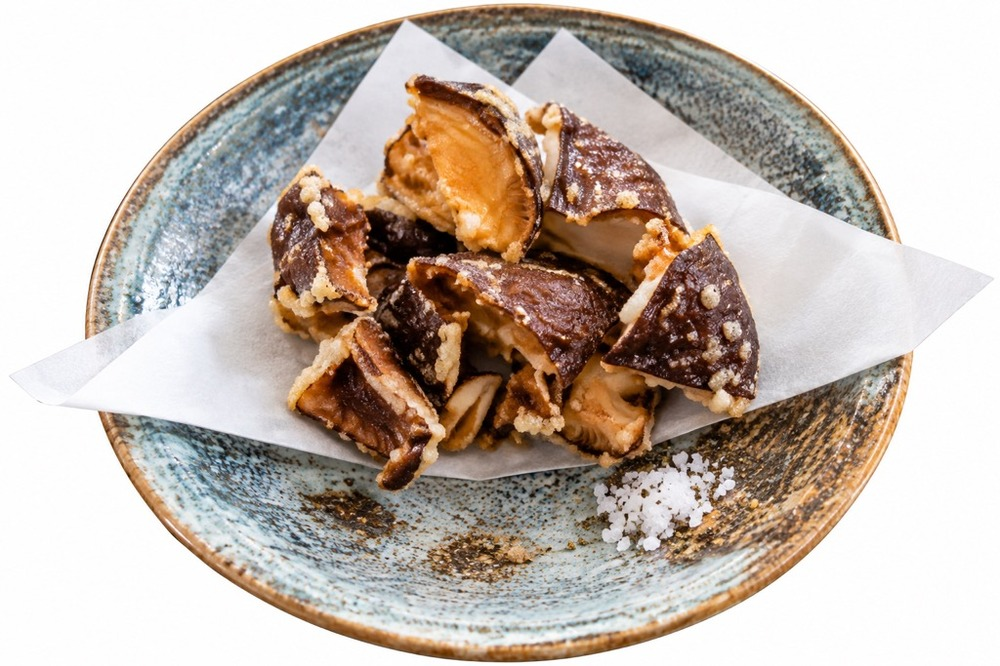
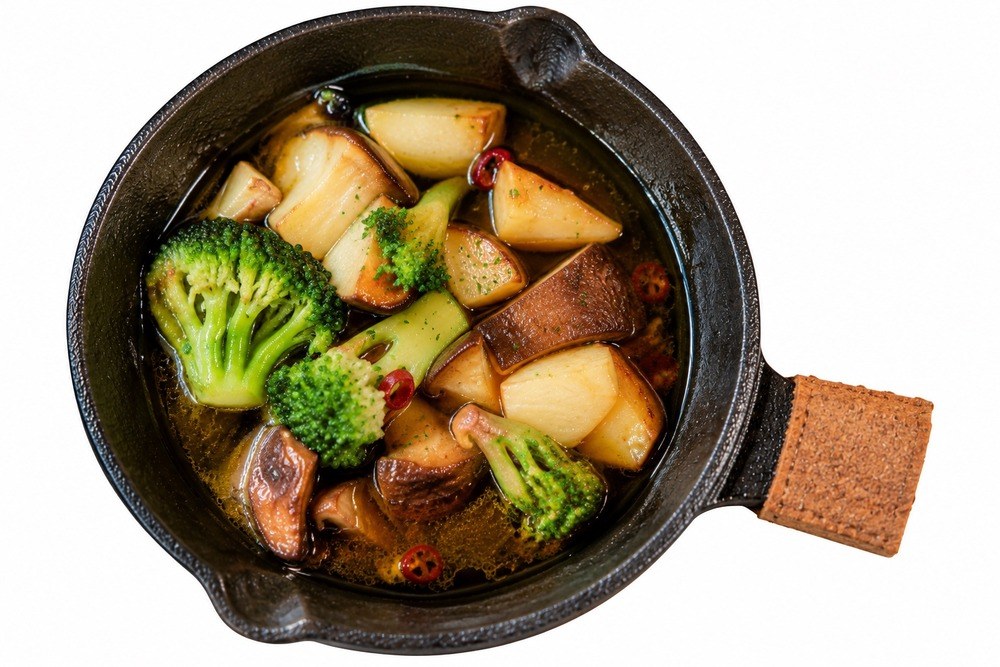
ORDブランドサイト: カテゴリ共通アイコン・ヒーロー画像を追加、商品写真の誤り2件を修正
- カテゴリナビゲーションを社長提供のAI生成汎用アイコン画像に統一（特定加盟店の商品写真との混同を解消）
- トップページのヒーローセクションを社長提供の完成バナー画像に差し替え
- 日替わりアヒージョ(P034)・五葷抜き日替わりアヒージョ(P042)に誤って登録されていた
  「沖縄県産しいたけフリット(P030)」の写真を、新たに提供された実写真（アヒージョ本来の一皿）に修正
- P030自体も低解像度(205x130)の粗いクロップ画像だったため、正しい高解像度写真に差し替え
- backend/backend-uitestに /category-images, /brand-images の静的配信ルートを追加

diff --git a/site/index.html b/site/index.html
@@ -72,48 +72,15 @@
     .hamburger{display:flex;}
   }
 
-  /* ---------- Hero ---------- */
-  .hero{
-    position:relative; overflow:hidden; background:linear-gradient(120deg,#0e3634 0%,#1c5b55 45%,#2f7d76 75%,#e8a25f 130%);
-    padding:36px 20px 44px;
-  }
-  .hero::before{
-    content:''; position:absolute; inset:0; opacity:.16; pointer-events:none;
-    background-image:radial-gradient(circle at 15% 20%, #fff 0, transparent 2px), radial-gradient(circle at 80% 60%, #fff 0, transparent 2px);
-    background-size:120px 120px;
-  }
-  .hero-inner{
-    max-width:1240px; margin:0 auto; position:relative;
-    display:grid; grid-template-columns:1.1fr .9fr; gap:34px; align-items:center;
-  }
-  @media (max-width:900px){ .hero-inner{grid-template-columns:1fr;} }
-  .hero-copy{color:#fff; position:relative; z-index:2;}
-  .hero-copy h1{font-size:clamp(30px,4.6vw,50px); line-height:1.08; margin:0 0 14px; font-weight:800;}
-  .hero-copy p{margin:0 0 20px; font-size:15px; max-width:420px; opacity:.95; line-height:1.6;}
-  .hero-script{font-family:'Caveat',cursive; font-size:22px; color:#ffe3c9; margin:0 0 18px; display:block;}
-  .badge-row{display:flex; flex-wrap:wrap; gap:22px 26px; margin-top:10px;}
+  /* ---------- Hero（社長提供の完成グラフィックをそのまま使用） ---------- */
+  .hero-banner{width:100%; overflow:hidden; background:var(--teal-dark); line-height:0;}
+  .hero-banner img{width:100%; height:auto; display:block;}
   .badge-item{display:flex; flex-direction:column; align-items:center; gap:7px; width:88px; text-align:center;}
   .badge-circle{
     width:48px; height:48px; border-radius:50%; border:1.5px solid rgba(255,255,255,.55);
     display:flex; align-items:center; justify-content:center; color:#fff;
   }
   .badge-item span{font-size:11.5px; font-weight:700; color:#fff; line-height:1.3;}
-
-  .hero-visual{position:relative; z-index:2;}
-  .hero-photo-card{
-    border-radius:22px; overflow:hidden; box-shadow:var(--shadow-lift); border:6px solid rgba(255,255,255,.18);
-    aspect-ratio:5/4;
-  }
-  .hero-photo-card img{width:100%; height:100%; object-fit:cover;}
-  .cutoff-card{
-    background:var(--coral); color:#fff; border-radius:16px; padding:14px 18px; margin-top:-34px; margin-left:18px;
-    position:relative; z-index:3; box-shadow:0 12px 30px rgba(209,76,48,.4);
-    display:flex; align-items:center; gap:12px; max-width:340px;
-  }
-  .cutoff-card .clock{flex:0 0 auto; width:30px; height:30px;}
-  .cutoff-card .big{font-size:15px; font-weight:800; display:block;}
-  .cutoff-card .sub{font-size:12px; opacity:.95;}
-  @media (max-width:900px){ .cutoff-card{margin-left:0;} }
 
   /* ---------- Sections ---------- */
   .section{max-width:1240px; margin:0 auto; padding:38px 20px;}
@@ -196,6 +163,8 @@
     font-size:14px; display:flex; align-items:center; justify-content:center; gap:8px; margin-top:6px;
   }
   .cart-delivery-note{display:flex; align-items:center; gap:10px; font-size:12px; color:var(--text-soft); margin-top:14px; padding-top:14px; border-top:1px solid var(--border);}
+  .cart-cutoff-note{display:flex; align-items:center; gap:8px; font-size:11.5px; color:var(--teal); font-weight:700; margin-top:8px;}
+  .cart-cutoff-note.past{color:var(--coral-dark);}
 
   .mobile-cart-fab{
     position:fixed; bottom:18px; left:50%; transform:translateX(-50%); z-index:80;
@@ -336,19 +305,22 @@ const ICONS = {
   clock: '<svg width="22" height="22" viewBox="0 0 24 24" fill="none" stroke="#fff" stroke-width="2" stroke-linecap="round" stroke-linejoin="round"><circle cx="12" cy="12" r="10"/><path d="M12 6v6l4 2"/></svg>',
 };
 
-// カテゴリアイコンは実際のGAJIMARU商品写真から代表カットを使用する（絵文字は使わない）
+// 【2026-09-24・社長提供】カテゴリアイコンはORD共通の汎用素材（/category-images）を使用する。
+// 特定加盟店(GAJIMARU等)の商品写真をORD全体のカテゴリ表示に流用しない（加盟店増加時の公平性・
+// 保守性の問題を避けるため。2026-09-23監査で発見した問題への対応）。
 const CATEGORY_META = {
-  ALL:       { photo:null, en:'All',       ja:'すべて' },
-  RAMEN:     { photo:'/product-images/ORD-M001-P001.jpg', en:'Ramen',     ja:'ラーメン' },
-  RICE:      { photo:'/product-images/ORD-M001-P017.jpg', en:'Rice',      ja:'ライス' },
-  PASTA:     { photo:'/product-images/ORD-M001-P020.jpg', en:'Pasta',     ja:'パスタ' },
-  APPETIZER: { photo:'/product-images/ORD-M001-P011.jpg', en:'Appetizer', ja:'前菜' },
-  DESSERT:   { photo:'/product-images/ORD-M001-P043.jpg', en:'Dessert',   ja:'デザート' },
-  DRINK:     { photo:'/product-images/ORD-M001-P047.jpg', en:'Drinks',    ja:'ドリンク' },
-  KIDS:      { photo:'/product-images/ORD-M001-P062.jpg', en:'Kids',      ja:'キッズ' },
+  ALL:       { photo:'/category-images/ALL.png',       en:'All',       ja:'すべて' },
+  RAMEN:     { photo:'/category-images/RAMEN.png',      en:'Ramen',     ja:'ラーメン' },
+  RICE:      { photo:'/category-images/RICE.png',       en:'Rice',      ja:'ライス' },
+  PASTA:     { photo:'/category-images/PASTA.png',      en:'Pasta',     ja:'パスタ' },
+  APPETIZER: { photo:'/category-images/APPETIZER.png',  en:'Appetizer', ja:'前菜' },
+  DESSERT:   { photo:'/category-images/DESSERT.png',    en:'Dessert',   ja:'デザート' },
+  DRINK:     { photo:'/category-images/DRINK.png',      en:'Drinks',    ja:'ドリンク' },
+  KIDS:      { photo:'/category-images/KIDS.png',       en:'Kids',      ja:'キッズ' },
 };
 const CATEGORY_ORDER = ['ALL','RAMEN','RICE','PASTA','APPETIZER','DESSERT','DRINK','KIDS'];
-const HERO_FEATURED_IMAGE = '/product-images/ORD-M001-P014.jpg';
+// 【2026-09-24・社長提供】ブランドヒーロー画像（英語/日本語併記の完成グラフィック）。
+const HERO_BRAND_IMAGE = '/brand-images/hero-home.jpg';
 
 const I18N = {
   en: {
@@ -579,6 +551,7 @@ function cartPanelHtml(){
     <div class="cart-subtotal"><span>${t('subtotal')}</span><span>¥${cartSubtotal().toLocaleString()}</span></div>
     <button class="cart-checkout-btn" onclick="showToast(t('checkoutComingSoon'))">${ICONS.cartWhite} ${t('proceedCheckout')}</button>
     <div class="cart-delivery-note">${ICONS.car.replace('width="22" height="22"','width="18" height="18"')} <span>${t('deliveryTimeLabel')}: ${DELIVERY_WINDOW}</span></div>
+    <div class="cart-cutoff-note ${isPastCutoff() ? 'past' : ''}">${ICONS.clock.replace('stroke="#fff"','stroke="currentColor"').replace('width="22" height="22"','width="16" height="16"')} <span>${isPastCutoff() ? t('cutoffLabelPast') : t('cutoffLabel') + '（' + t('cutoffSub') + '）'}</span></div>
   </div>`;
 }
 function renderCartPanelIfPresent(){
@@ -608,39 +581,12 @@ function render(){
   updateMobileFab();
 }
 
-function renderCutoffCard(){
-  const past = isPastCutoff();
-  return `<div class="cutoff-card">
-    <div class="clock">${ICONS.clock}</div>
-    <div><span class="big">${past ? t('cutoffLabelPast') : t('cutoffLabel')}</span><span class="sub">${t('cutoffSub')}</span></div>
-  </div>`;
-}
-
-function renderHeroBadges(){
-  return `<div class="badge-row">
-    ${[['leaf','badgeVegan'],['moon','badgeHalal'],['car','badgeResort'],['card','badgeCashless']].map(([icon,key]) =>
-      `<div class="badge-item"><div class="badge-circle">${ICONS[icon]}</div><span>${t(key)}</span></div>`
-    ).join('')}
-  </div>`;
-}
-
 function renderHome(){
   const featuredStores = state.stores.slice(0, 4);
   const popular = state.homeProducts.slice(0, 6);
   return `
-    <section class="hero">
-      <div class="hero-inner">
-        <div class="hero-copy">
-          <h1>${escapeHtml(t('heroTitle')).replace(/\\n/g,'<br>')}</h1>
-          <p>${t('heroSub')}</p>
-          ${renderHeroBadges()}
-        </div>
-        <div class="hero-visual">
-          <div class="hero-photo-card"><img src="${BACKEND_URL + HERO_FEATURED_IMAGE}" alt=""></div>
-          <span class="hero-script" style="display:block;margin:10px 0 0 18px;">${t('heroScript')}</span>
-          ${renderCutoffCard()}
-        </div>
-      </div>
+    <section class="hero-banner">
+      <img src="${BACKEND_URL + HERO_BRAND_IMAGE}" alt="YOUR OKINAWA STAY, MADE EASY. / 沖縄の滞在を、もっと気軽に。">
     </section>
     <div class="content-with-cart">
       <div class="main-col">

diff --git a/backend-uitest/src/index.ts b/backend-uitest/src/index.ts
@@ -40,9 +40,14 @@ app.use(cors({ credentials: true, origin: true }));
 app.use(express.json({ verify: captureRawBody }));
 app.use(express.urlencoded({ extended: true }));
 // 【2026-09-23・ORDブランドサイト構築】商品写真・加盟店ロゴの静的配信。
-// 加盟店提供の実写真のみを配置する想定（AI生成・推測画像は置かない）。
+// 加盟店提供の実写真のみを配置する想定（AI生成・推測画像は置かない＝特定商品の実物を偽らない）。
 app.use('/product-images', express.static(path.join(__dirname, '..', 'public', 'product-images')));
 app.use('/store-logos', express.static(path.join(__dirname, '..', 'public', 'store-logos')));
+// 【2026-09-24・社長承認】カテゴリ共通アイコン・ブランドヒーロー画像の静的配信。
+// こちらは特定商品・特定加盟店の実写真ではなく、ORD全体で共通利用する汎用素材のため、
+// AI生成画像を使用してよい区分（product-images/store-logosとは異なる方針）。
+app.use('/category-images', express.static(path.join(__dirname, '..', 'public', 'category-images')));
+app.use('/brand-images', express.static(path.join(__dirname, '..', 'public', 'brand-images')));
 
 const PORT = process.env.PORT ? Number(process.env.PORT) : 3001;
 const SQUARE_ACCESS_TOKEN = process.env.SQUARE_ACCESS_TOKEN || '';

diff --git a/backend/src/index.ts b/backend/src/index.ts
@@ -40,9 +40,14 @@ app.use(cors({ credentials: true, origin: true }));
 app.use(express.json({ verify: captureRawBody }));
 app.use(express.urlencoded({ extended: true }));
 // 【2026-09-23・ORDブランドサイト構築】商品写真・加盟店ロゴの静的配信。
-// 加盟店提供の実写真のみを配置する想定（AI生成・推測画像は置かない）。
+// 加盟店提供の実写真のみを配置する想定（AI生成・推測画像は置かない＝特定商品の実物を偽らない）。
 app.use('/product-images', express.static(path.join(__dirname, '..', 'public', 'product-images')));
 app.use('/store-logos', express.static(path.join(__dirname, '..', 'public', 'store-logos')));
+// 【2026-09-24・社長承認】カテゴリ共通アイコン・ブランドヒーロー画像の静的配信。
+// こちらは特定商品・特定加盟店の実写真ではなく、ORD全体で共通利用する汎用素材のため、
+// AI生成画像を使用してよい区分（product-images/store-logosとは異なる方針）。
+app.use('/category-images', express.static(path.join(__dirname, '..', 'public', 'category-images')));
+app.use('/brand-images', express.static(path.join(__dirname, '..', 'public', 'brand-images')));
 
 const PORT = process.env.PORT ? Number(process.env.PORT) : 3001;
 const SQUARE_ACCESS_TOKEN = process.env.SQUARE_ACCESS_TOKEN || '';
